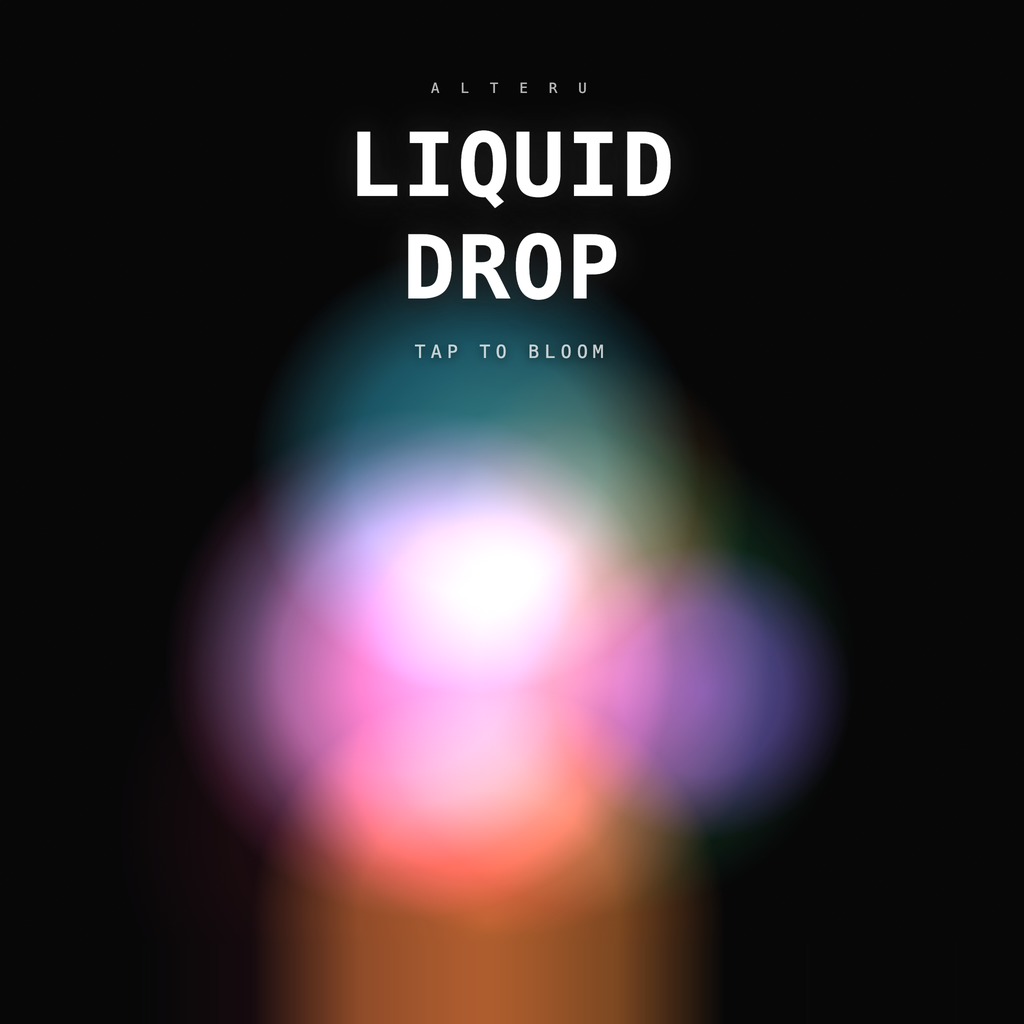
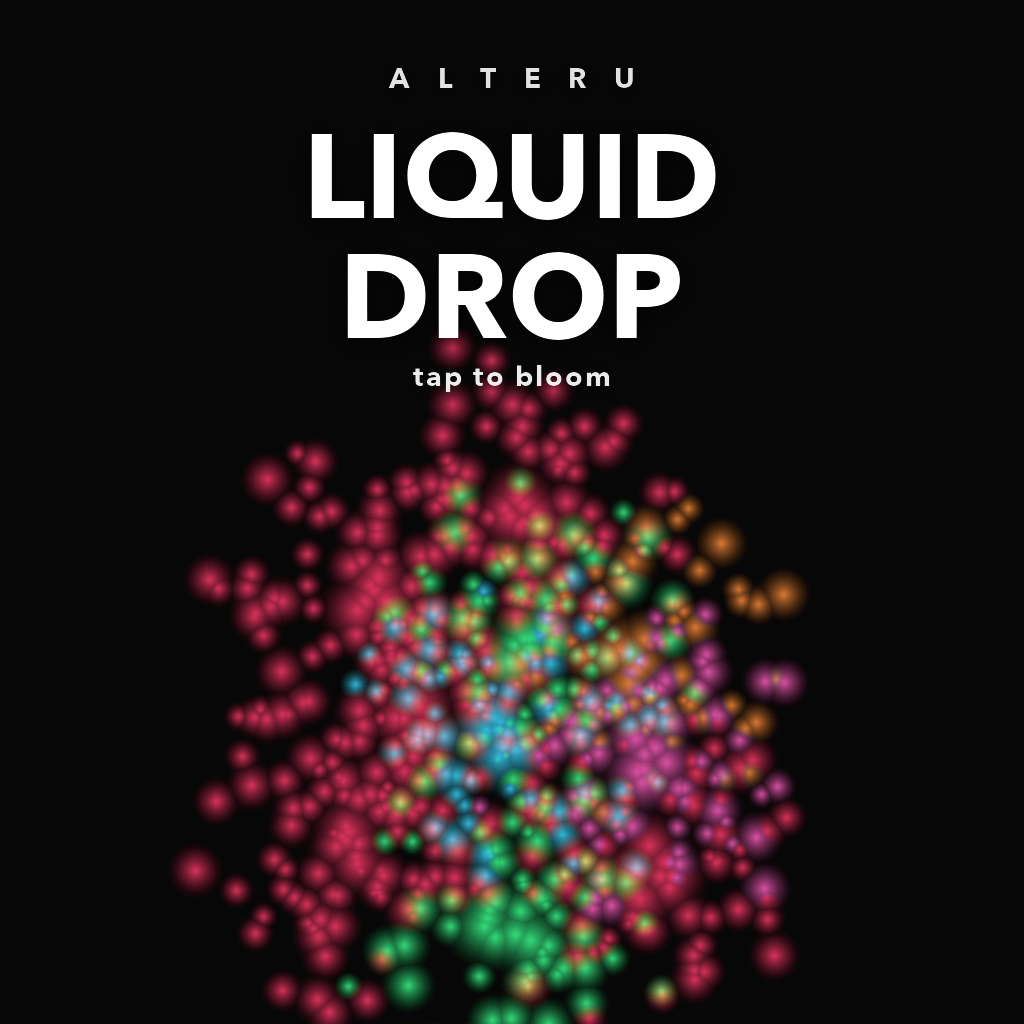
v1.1 — particle-cloud diffusion, no more hard radial gradient drops
Per playtest: a single radial-gradient disc per drop looked like a
solid hard shape, not real liquid diffusion.

Each tap now spawns 60-90 small particles that fly outward from the
tap point with random angles and decelerating velocity plus Brownian
jitter. Overlapping particles produce the actual "ink in water"
diffusion look. A small core of slower, larger particles anchors the
bloom so the center stays vivid.

- oil: 70 particles, faster drag (less spread), bigger size, source-over
- milk: 90 particles, slower drag (smoother spread), screen blend
- acrylic: 60 particles, fast drag, lighter blend so overlaps go white

Sprite-cached radial-gradient blobs (one per color × radius bucket)
keep frame cost flat — drawImage instead of createRadialGradient per
particle each frame.

Poster regenerated from a Python particle simulation since chrome's
toDataURL of the live canvas was racing the frame loop's clearRect.

diff --git a/index.html b/index.html
@@ -512,9 +512,13 @@
       palette: ['#ffd24a', '#39d8ff', '#ff39c2', '#a0ff3e', '#ff8030', '#b048ff'],
       blendMode: 'source-over',
       paintBg: paintDeepPool,
-      rMaxBase: 100,
-      growMs: 700,
-      lifeMs: 12000,
+      // particle bloom settings
+      pCount: 70,
+      pSpread: 110,           // px the cloud spreads to over its life
+      pSize: 5,               // average sprite radius
+      pDrag: 0.948,
+      pSpeed: 2.6,            // initial outward speed in px/frame
+      pLifeMs: 11000,
       ambient: 'submarine',
       style: 'oil',
     },
@@ -524,9 +528,12 @@
       palette: ['#fffaf0', '#fff0d6', '#fff5dd', '#ffe8c0', '#fff8e2'],
       blendMode: 'screen',
       paintBg: paintCoffeeCup,
-      rMaxBase: 130,
-      growMs: 1100,
-      lifeMs: 14000,
+      pCount: 90,
+      pSpread: 150,
+      pSize: 6,
+      pDrag: 0.962,           // slower drag — milk diffuses smoothly
+      pSpeed: 1.9,
+      pLifeMs: 14000,
       ambient: 'steam',
       style: 'milk',
     },
@@ -536,9 +543,12 @@
       palette: ['#ff3b6b', '#ff8e3c', '#ffd03c', '#3cff8e', '#3cd8ff', '#9a3cff', '#ff5fbf'],
       blendMode: 'lighter',
       paintBg: paintBlackCanvas,
-      rMaxBase: 90,
-      growMs: 500,
-      lifeMs: 10000,
+      pCount: 60,
+      pSpread: 100,
+      pSize: 4.5,
+      pDrag: 0.945,
+      pSpeed: 3.0,
+      pLifeMs: 9500,
       ambient: 'pad-warm',
       style: 'acrylic',
     },
@@ -604,113 +614,113 @@
     }
   }
 
-  /* ============ DROPS ============ */
-  const drops = [];
-  const MAX_DROPS = 90;
+  /* ============ PARTICLE CLOUD ============
+     Each "drop" spawns a cloud of ~60-90 small particles that fly out
+     from the tap point, decelerate, jitter, and slowly fade. Multiple
+     overlapping particles produce the real "ink in water" diffusion
+     look instead of one hard radial gradient. */
+  const particles = [];
+  const MAX_PARTICLES = 3500;
 
-  function pickColor(palette) {
-    return palette[Math.floor(Math.random() * palette.length)];
-  }
+  function pickColor(palette) { return palette[Math.floor(Math.random() * palette.length)]; }
 
   function hexToRgba(hex, a) {
     const h = hex.replace('#', '');
-    const r = parseInt(h.substring(0, 2), 16);
-    const g = parseInt(h.substring(2, 4), 16);
-    const b = parseInt(h.substring(4, 6), 16);
-    return `rgba(${r}, ${g}, ${b}, ${a})`;
+    return `rgba(${parseInt(h.substring(0,2),16)}, ${parseInt(h.substring(2,4),16)}, ${parseInt(h.substring(4,6),16)}, ${a})`;
+  }
+
+  // Sprite cache: one pre-baked radial-gradient blob per (color, size)
+  const spriteCache = new Map();
+  function getSprite(color, radiusPx) {
+    const key = color + '|' + radiusPx;
+    let sp = spriteCache.get(key);
+    if (sp) return sp;
+    const d = Math.ceil(radiusPx * 4) + 2;
+    sp = document.createElement('canvas');
+    sp.width = d; sp.height = d;
+    const sc = sp.getContext('2d');
+    const cx = d/2, cy = d/2;
+    const grad = sc.createRadialGradient(cx, cy, 0, cx, cy, radiusPx * 2);
+    grad.addColorStop(0,    hexToRgba(color, 0.85));
+    grad.addColorStop(0.4,  hexToRgba(color, 0.55));
+    grad.addColorStop(0.8,  hexToRgba(color, 0.15));
+    grad.addColorStop(1,    hexToRgba(color, 0));
+    sc.fillStyle = grad;
+    sc.beginPath(); sc.arc(cx, cy, radiusPx * 2, 0, Math.PI * 2); sc.fill();
+    spriteCache.set(key, sp);
+    return sp;
   }
 
   function addDrop(x, y, sizeMul = 1) {
-    const variance = 0.7 + Math.random() * 0.6;
-    drops.push({
-      x, y,
-      r: 4 * SCALE,                              // current radius
-      rMax: theme.rMaxBase * SCALE * variance * sizeMul,
-      grow: 1,
-      age: 0,
-      growEnd: theme.growMs,
-      maxLife: theme.lifeMs * (0.85 + Math.random() * 0.3),
-      color: pickColor(theme.palette),
-      // slight drift like real liquid
-      vx: (Math.random() - 0.5) * 0.18 * SCALE,
-      vy: (Math.random() - 0.5) * 0.18 * SCALE,
-      seed: Math.random() * 1000,
-    });
-    if (drops.length > MAX_DROPS) drops.shift();
-  }
-
-  function updateDrops(dt) {
-    for (let i = drops.length - 1; i >= 0; i--) {
-      const d = drops[i];
-      d.age += dt;
-      if (d.age < d.growEnd) {
-        // ease-out growth
-        const f = d.age / d.growEnd;
-        const ease = 1 - Math.pow(1 - f, 2.2);
-        d.r = 4 * SCALE + (d.rMax - 4 * SCALE) * ease;
-      } else {
-        d.r = d.rMax;
-      }
-      d.x += d.vx; d.y += d.vy;
-      d.vx *= 0.985; d.vy *= 0.985;
-      if (d.age > d.maxLife) drops.splice(i, 1);
+    const color = pickColor(theme.palette);
+    const N = Math.round(theme.pCount * sizeMul);
+    const baseSpeed = theme.pSpeed * SCALE;
+    const maxLife = theme.pLifeMs * (0.85 + Math.random() * 0.3);
+    // central core: a few slow-moving, slightly larger particles (anchor of the bloom)
+    const coreCount = Math.max(4, Math.round(N * 0.10));
+    for (let i = 0; i < N; i++) {
+      const isCore = i < coreCount;
+      const ang = Math.random() * Math.PI * 2;
+      // power-3 distribution gives more particles near the rim, fewer near center
+      const sp = isCore
+        ? baseSpeed * 0.15 * (0.4 + Math.random() * 0.5)
+        : baseSpeed * (0.35 + Math.pow(Math.random(), 1.3) * 0.9);
+      const size = (theme.pSize * (isCore ? 1.5 : 0.7) + Math.random() * theme.pSize * 0.7) * SCALE;
+      particles.push({
+        x: x + (Math.random() - 0.5) * 4 * SCALE,
+        y: y + (Math.random() - 0.5) * 4 * SCALE,
+        vx: Math.cos(ang) * sp,
+        vy: Math.sin(ang) * sp,
+        r: size,
+        life: 0,
+        maxLife,
+        color,
+      });
+    }
+    if (particles.length > MAX_PARTICLES) {
+      particles.splice(0, particles.length - MAX_PARTICLES);
     }
   }
 
-  function dropAlpha(d) {
-    if (d.age < 250) return d.age / 250;
-    const fadeStart = d.maxLife * 0.7;
-    if (d.age < fadeStart) return 1;
-    return Math.max(0, 1 - (d.age - fadeStart) / (d.maxLife - fadeStart));
+  function updateParticles(dt) {
+    const drag = theme.pDrag;
+    const jitter = 0.08 * SCALE;
+    for (let i = particles.length - 1; i >= 0; i--) {
+      const p = particles[i];
+      p.life += dt;
+      p.x += p.vx;
+      p.y += p.vy;
+      p.vx *= drag;
+      p.vy *= drag;
+      // small Brownian wobble so particles don't settle in a perfect ring
+      p.vx += (Math.random() - 0.5) * jitter;
+      p.vy += (Math.random() - 0.5) * jitter;
+      if (p.life > p.maxLife) particles.splice(i, 1);
+    }
   }
 
-  function drawDrops(c) {
+  function particleAlpha(p) {
+    if (p.life < 200) return p.life / 200;
+    const fadeStart = p.maxLife * 0.45;
+    if (p.life < fadeStart) return 1;
+    return Math.max(0, 1 - (p.life - fadeStart) / (p.maxLife - fadeStart));
+  }
+
+  function drawParticles(c) {
     c.clearRect(0, 0, W, H);
-    const style = theme.style;
     c.save();
     c.globalCompositeOperation = theme.blendMode;
-    for (const d of drops) {
-      const a = dropAlpha(d);
-      if (a <= 0) continue;
-      if (style === 'oil') {
-        // Oil: bright center, vivid edge, slight glossy highlight
-        const grad = c.createRadialGradient(d.x, d.y, 0, d.x, d.y, d.r);
-        grad.addColorStop(0,    hexToRgba(d.color, a * 0.95));
-        grad.addColorStop(0.50, hexToRgba(d.color, a * 0.88));
-        grad.addColorStop(0.88, hexToRgba(d.color, a * 0.55));
-        grad.addColorStop(1,    hexToRgba(d.color, 0));
-        c.fillStyle = grad;
-        c.beginPath(); c.arc(d.x, d.y, d.r, 0, Math.PI * 2); c.fill();
-        // glossy highlight (top-left, smaller as drop grows)
-        const hr = d.r * 0.22;
-        c.fillStyle = `rgba(255,255,255,${a * 0.4})`;
-        c.beginPath();
-        c.arc(d.x - d.r * 0.35, d.y - d.r * 0.35, hr, 0, Math.PI * 2);
-        c.fill();
-      } else if (style === 'milk') {
-        // Milk: soft cream bloom with concentric rings, rendered with screen
-        // blend so cream visibly lightens the coffee underneath
-        const grad = c.createRadialGradient(d.x, d.y, 0, d.x, d.y, d.r);
-        grad.addColorStop(0,    hexToRgba(d.color, a * 0.95));
-        grad.addColorStop(0.35, hexToRgba(d.color, a * 0.78));
-        grad.addColorStop(0.78, hexToRgba(d.color, a * 0.32));
-        grad.addColorStop(1,    hexToRgba(d.color, 0));
-        c.fillStyle = grad;
-        c.beginPath(); c.arc(d.x, d.y, d.r, 0, Math.PI * 2); c.fill();
-        // soft halo ring (the "crema" boundary)
-        c.strokeStyle = hexToRgba(d.color, a * 0.55);
-        c.lineWidth = 1.6;
-        c.beginPath(); c.arc(d.x, d.y, d.r * 0.78, 0, Math.PI * 2); c.stroke();
-      } else {
-        // Acrylic: vivid + soft edge, blends with 'lighter' for overlapping colors
-        const grad = c.createRadialGradient(d.x, d.y, 0, d.x, d.y, d.r);
-        grad.addColorStop(0,    hexToRgba(d.color, a * 0.88));
-        grad.addColorStop(0.55, hexToRgba(d.color, a * 0.65));
-        grad.addColorStop(1,    hexToRgba(d.color, 0));
-        c.fillStyle = grad;
-        c.beginPath(); c.arc(d.x, d.y, d.r, 0, Math.PI * 2); c.fill();
-      }
+    for (const p of particles) {
+      const a = particleAlpha(p);
+      if (a <= 0.02) continue;
+      // round radius to nearest 0.5 step for sprite cache hit rate
+      const rKey = Math.max(1, Math.round(p.r * 2) / 2);
+      const sp = getSprite(p.color, rKey);
+      const d = sp.width;
+      c.globalAlpha = a;
+      c.drawImage(sp, p.x - d/2, p.y - d/2);
     }
+    c.globalAlpha = 1;
     c.restore();
   }
 
@@ -1003,8 +1013,8 @@
     lastT = t;
 
     if (cachedBg) { bgCtx.clearRect(0, 0, W, H); bgCtx.drawImage(cachedBg, 0, 0, W, H); }
-    updateDrops(dt);
-    drawDrops(poolCtx);
+    updateParticles(dt);
+    drawParticles(poolCtx);
     maybeSave(dt);
 
     raf = requestAnimationFrame(frame);
@@ -1123,21 +1133,17 @@
     document.querySelector('.watermark').style.display = 'none';
     if (wipeHintEl) wipeHintEl.style.display = 'none';
     document.getElementById('posterOverlay').style.display = 'block';
-    // Pre-seed drops for the poster — fully grown immediately so the
-    // composition reads instantly when chrome takes the screenshot.
-    // Keep drops below the title region.
+    // Pre-seed clouds for the poster. Keep them below the title region.
     const cy = H * 0.72;
-    for (let i = 0; i < 11; i++) {
-      const ang = (i / 11) * Math.PI * 2 + Math.random() * 0.6;
-      const rad = Math.min(W, H) * (0.08 + Math.random() * 0.18);
-      const dy = Math.abs(Math.sin(ang)) * 0.5 + 0.5;  // bias drops downward
-      addDrop(W*0.5 + Math.cos(ang) * rad, cy + Math.sin(ang) * rad * dy);
+    for (let i = 0; i < 9; i++) {
+      const ang = (i / 9) * Math.PI * 2 + Math.random() * 0.6;
+      const rad = Math.min(W, H) * (0.05 + Math.random() * 0.16);
+      addDrop(W*0.5 + Math.cos(ang) * rad, cy + Math.sin(ang) * rad);
     }
     addDrop(W*0.5, cy, 1.3);
-    for (const d of drops) {
-      d.age = d.growEnd + 200;
-      d.r = d.rMax;
-    }
+    // simulate ~1.2s of motion so clouds visibly bloom before screenshot
+    const PRE_FRAMES = 70;
+    for (let f = 0; f < PRE_FRAMES; f++) updateParticles(16);
   } else {
     runIntroDemo();
   }